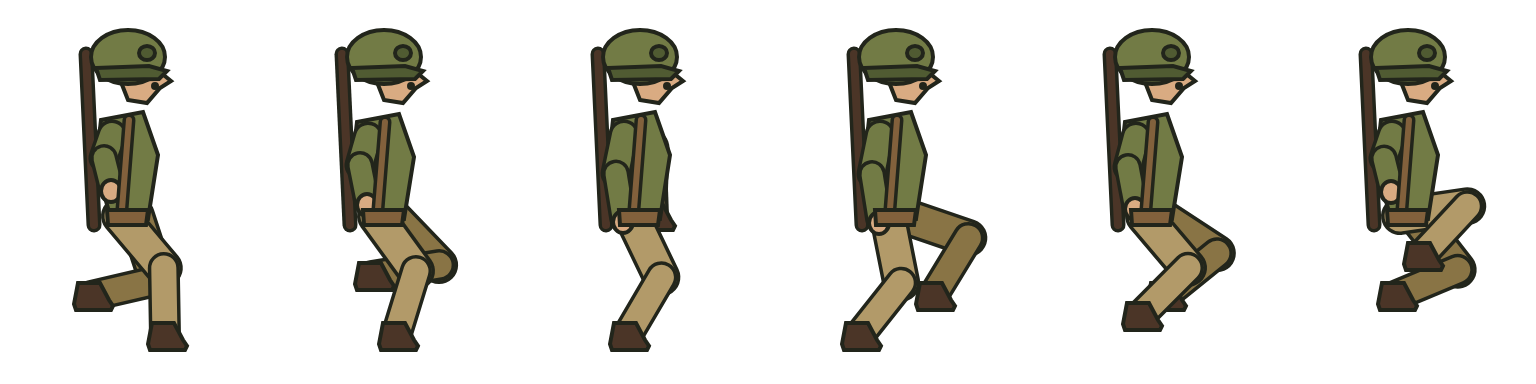
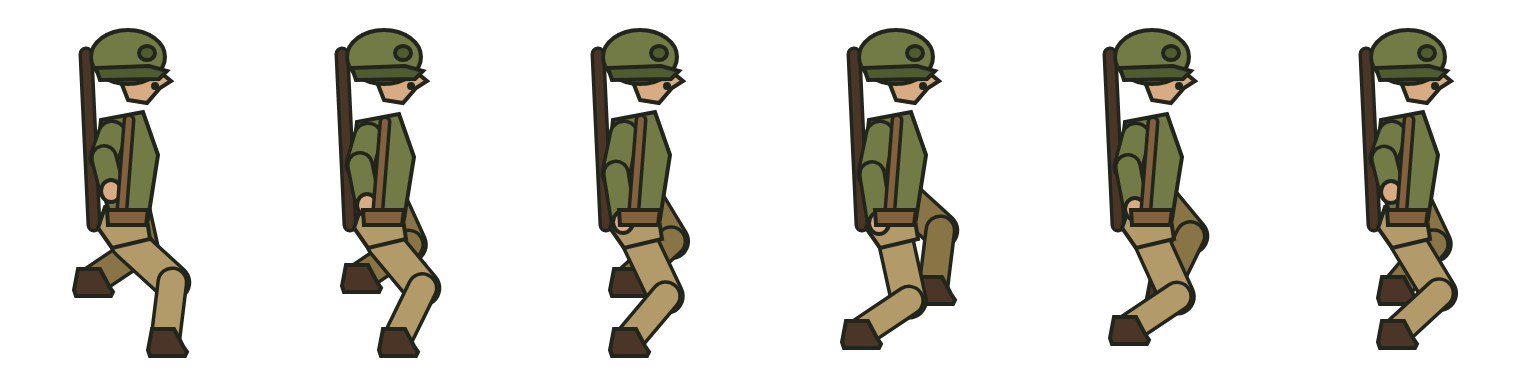
Match up/right direction guides to the accepted down master's exact gait

diff --git a/art/rig/brief09/README.md b/art/rig/brief09/README.md
@@ -1,18 +1,20 @@
-# Brief 09 direction guides — Tenth round corrections, 1 October 2026
+# Brief 09 direction guides — Eleventh round, 1 October 2026
 
-These are **paint guides, not finished sprites**. Never add them to the runtime manifest or promote the walk release gate. Use the accepted painted down-v3 soldier for face, helmet, proportions and kit; the simple guide rendering is not the style target.
+**Paint templates only, never runtime art.** These four PNG/JSON pairs supersede the Tenth round's40/80 measurements. The accepted down-v3 identity is still the paint reference. No finished up/right painting is delivered by this pack.
 
-Four PNGs cover six-frame up/right walks and two-frame up/right idle. Source cells: **256×384**, pivot **(128,330)**, source density **300/44 = 6.818 px/world**. Deliver painted sources and same-grid accent masks at this density. Claude makes the runtime exports. Do not shrink or repack character sources to 3×. Facility/station layers alone remain fixed at 3 px/world. Lying/sitting/climbing sources keep 6.818 px/world on wider cells, with an explicit consistent body pivot.
+Cells256×384; pivot(128,330); source density300/44px/world; stride22world px; six walk frames/two idle frames. Characters are not rescaled to3×. Claude makes runtime exports; facility/station layers remain3px/world.
 
-## Corrected geometry
+The generator uses exactly `docs/screenshots/2026-10-01-direction-guides/proposed-tracks-tenth-round-followup.json`:
 
-- Anatomical right foot plants in frames 1–3 in every view. In up (back view), it is at screen x148; the left foot is at x108. Rifle stays on the anatomical left shoulder, screen-left from behind. Claude's correction is retained.
-- Stance width is 40 source px (5.87 world px) in both views. Up: x108/148. Right: near/right sole ground row350, far/left row310. Idle uses the same spacing.
-- Passing swing-foot lift is 80 source px in both guides, close to the down master's measured82. Up passing sole is row263 versus ground343. Right far passing sole row230 versus ground310; near passing sole row270 versus ground350.
-- Stance-foot movement remains25 source px per frame: right decreases x; up increases y. Contact frames1 and4 plant opposite anatomical feet. No stride, runtime timing or speed changes.
+- Stance width52 in both walks/idles. Rear right foot/hip is x154, left x102. Right-facing near ground row356, far304; hip depths follow those rows.
+- Passing lift8 at frames3/6, feet at equal forward depth. Mid-swing lift12 at frames2/5.
+- Toe-off lift8, with up trailing soles row359 at frames1/4. Near/far boots retain their anatomical identities.
+- Planted feet move25source px per frame with the correct sign. Same anatomical foot plants in every direction at every phase. Rifle remains on anatomical left shoulder.
 
-Run `node tools/render-direction-contact-guides.cjs` with `@napi-rs/canvas` installed. It regenerates the PNGs/JSON and asserts signed cancellation, leg alternation, anatomical up identity,40-pixel width and80-pixel lift. These assertions test geometry, **not painted pixels**. Claude's `node tools/check-direction-guides.cjs` on `brief-09-daily-base` also passes: frame-start drift0, footprint spacing11 world px, runtime density6.818.
+Knees are solved in forward-depth/vertical-height space before projection. A screen row difference includes both ground depth and elevation; it must not be used directly as a lift measurement. Boot sole points remain exactly the proposed tracks.
 
-The runtime still has3.667 world px of within-frame drift because it moves the body continuously while holding each pose. This occurs in the down master too. No foot-lock change was made. Review the painted cycle in a30-second direction-change/idle clip before deciding on rendering changes or extra frames.
+Regenerate: `node tools/render-direction-contact-guides.cjs` (`@napi-rs/canvas` dependency). Validate: `node tools/check-direction-guides.cjs`. It exits0 and prints **ready to paint one cell at a time**. Generator also checks width52/lift8, signed stance cancellation and alternating contact legs. Geometry checks do not validate painted raster contacts.
 
-Paint one cell at a time. Preserve the anatomical limb path and sole contact, shared identity, opacity and kit. Reassemble without per-frame resizing. Deliver separate white helmet-band/shoulder accent masks. Run measured-raster foot tracks, asset/gait validation and the game clip before registration. This guide pack does not deliver an approved painted up/right cycle.
+The guides remain absent from `js/asset-manifest.js` and `service-worker.js`. No walking speed, stride or foot-lock change. The6-frame renderer still has3.667world px of within-frame drift; that separate behaviour is unchanged.
+
+Paint each cell over these guides using the accepted down-v3 face/helmet/uniform/webbing/rifle identity. Fully opaque interior, no glow/backpack/shadow/effect. Keep boots on recorded contacts. Supply a white helmet-band/shoulder accent mask on identical canvases. Reassemble without individual frame resizing. Claude measures painted boot pixels, runs gait validation and reviews a30-second turn-and-idle clip before registration or gate promotion.

diff --git a/CLAUDE_IMPLEMENTATION/09_ELEVENTH_ROUND_ART_RESPONSE.md b/CLAUDE_IMPLEMENTATION/09_ELEVENTH_ROUND_ART_RESPONSE.md
@@ -1,0 +1,17 @@
+# Eleventh round response — 1 October 2026
+
+Based on `brief-09-daily-base` ce67dd5, the Eleventh round in `art/CHATGPT_FEEDBACK.md`, the Second pass in `09_DIRECTION_GUIDE_REVIEW.md`, and the exact proposed-tracks JSON. This correction preserves Claude's gameplay merge on main.
+
+## Delivered
+
+The generator and four up/right walk/idle PNG/JSON pairs now use the exact proposed contacts:52-pixel stance,8-pixel passing lift,12-pixel mid-swing lift, and up toe-off row359. The right and up hips follow the new ground spacing. Knees are solved in ground-depth/height space, avoiding the earlier conflation of depth with elevation. Anatomical identity, left rifle shoulder,256×384 cells,(128,330) pivot and300/44source density are retained.
+
+`node tools/render-direction-contact-guides.cjs` passes. `node tools/check-direction-guides.cjs` exits0 and prints `Consistent with the accepted down master: ready to paint one cell at a time`. Both guides: frame-start slip0; footprints11world px; width52; passing lift8; same planted anatomical foot at every phase. Toe-off checker reports right8/up9 due to the rounded exact proposed tracks. No gameplay/rendering files changed.
+
+## Painting remains incomplete
+
+A single rear contact cell was painted with the corrected guide as edit target and down-v3 as identity reference, through the built-in image generator. It again added exterior glow and changed boot contacts. Pixel inspection also found no alpha255 body pixels. It is rejected; it is not in the repository, manifest or offline cache. No painted sheets or accent masks are falsely marked delivered.
+
+The generator has repeatedly failed to preserve exact contact geometry, including when asked to paint just one cell. Producing the remaining cells from this result would duplicate an unresolved defect. Finishing this stage requires an art workflow that can retain the guide's contours and edit boot contacts precisely; generic full-image generation has not demonstrated that capability here. These corrected templates are ready for such painting, but not an approved sprite set.
+
+Claude can pull this additive correction, regenerate overlays and keep the walk gate blocked. The live daily routine remains Claude's implementation; guides do not replace its character art. No speed/stride/foot-lock changes are authorised by this handoff. The release sequence remains measured painted contacts → gait validator →30-second turn/idle clip.
